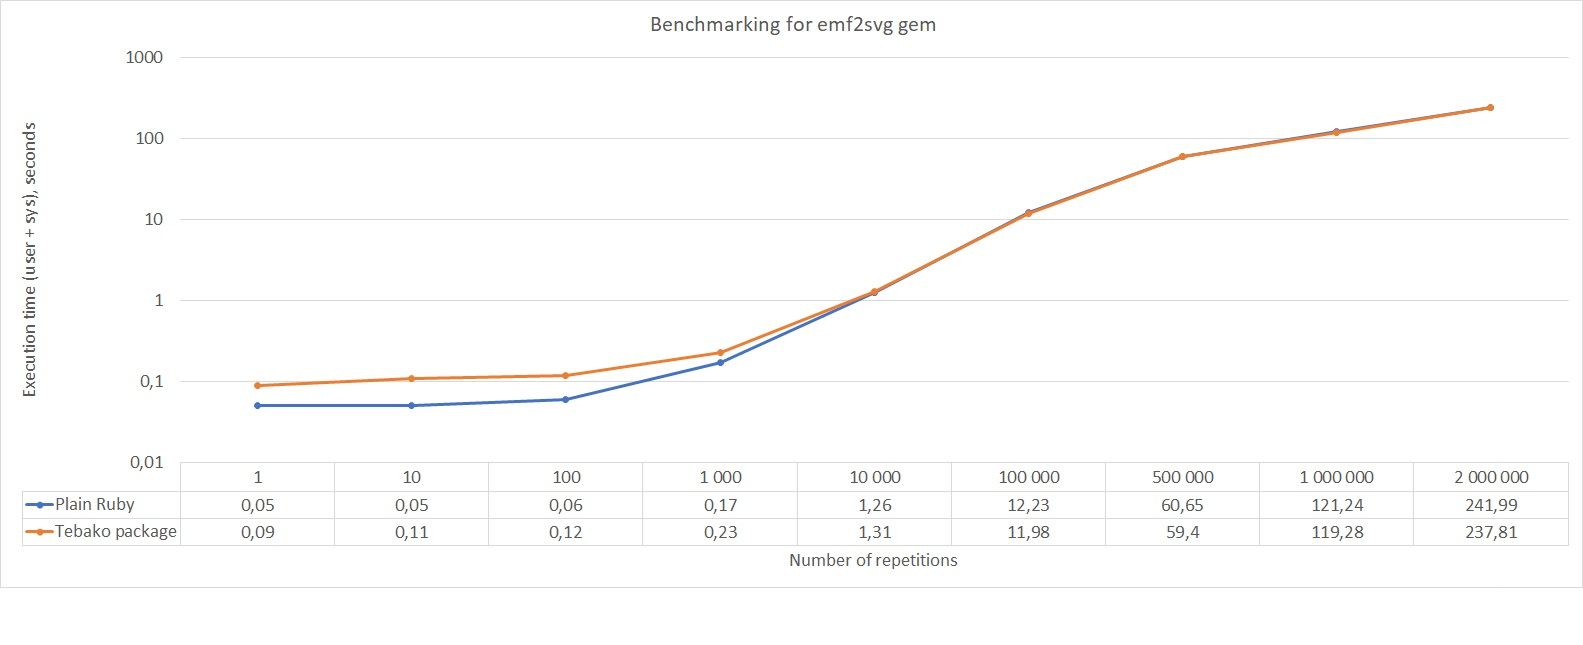
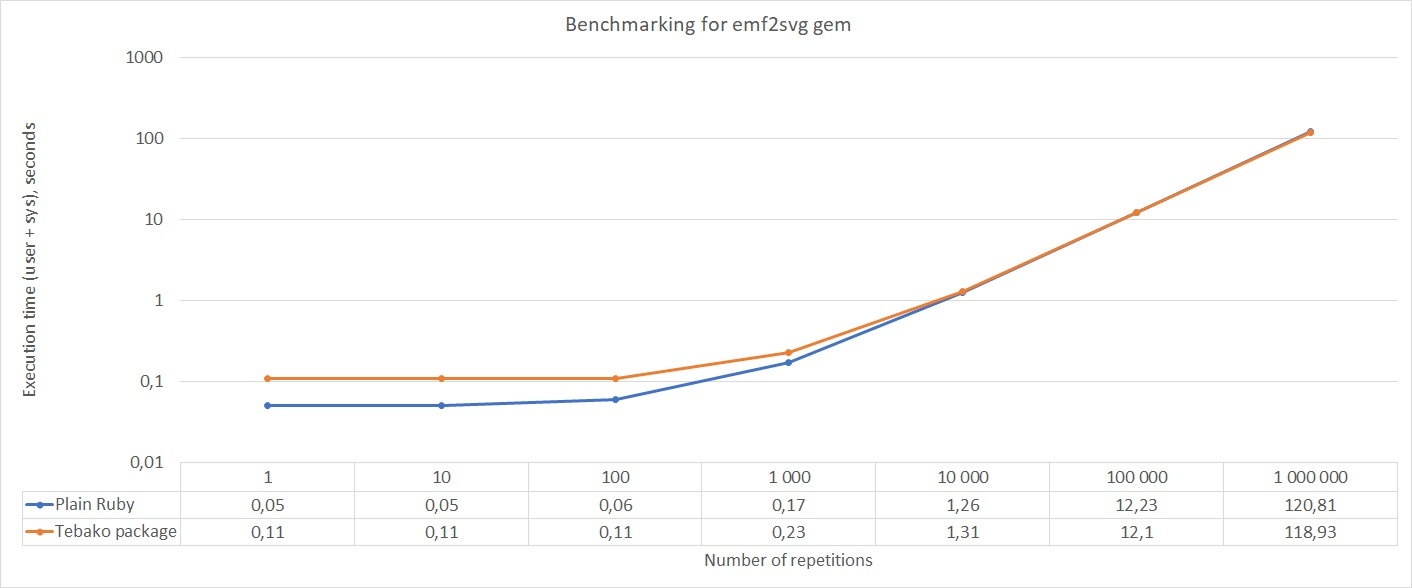
Documented vectory gem benchmarking results (#5)

diff --git a/tests/vectory-test/vectory-test-run.rb b/tests/vectory-test/vectory-test-run.rb
@@ -1,0 +1,26 @@
+# frozen_string_literal: true
+
+require "tempfile"
+
+puts "Hello! This is vectory benchmarking test."
+
+if (argv = ARGV).empty?
+  puts "No arguments given"
+  exit(1)
+end
+
+if argv[0].to_i < 1
+  puts "Argument must be a positive integer"
+  exit(1)
+end
+
+argv[0].to_i.times do
+  require "vectory"
+
+  svg = Vectory::Emf.from_path(File.join(__dir__, "fixtures", "img.emf")).to_svg.content
+
+  Tempfile.create(["output", ".svg"]) do |tempfile|
+    tempfile.write(svg)
+    puts "SVG written to #{tempfile.path}"
+  end
+end
